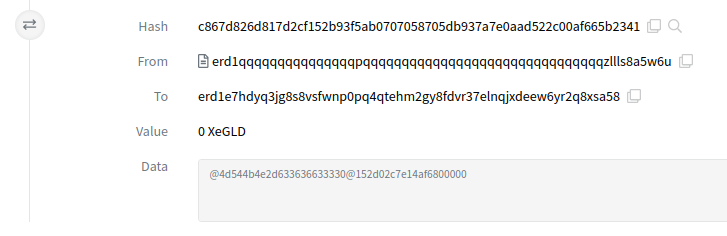
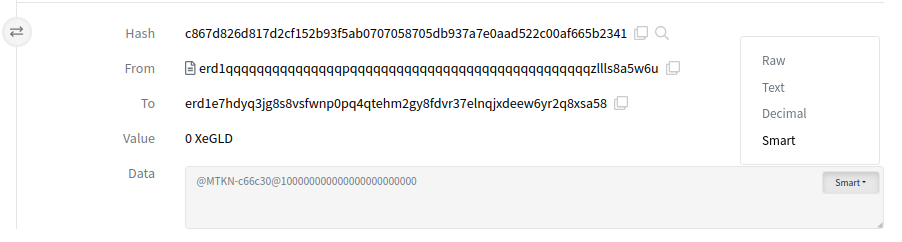
fixes after second review

diff --git a/docs/wallet/wallet-token.md b/docs/wallet/wallet-token.md
@@ -20,7 +20,11 @@ You can create and issue an ESDT token from [Elrond web wallet](https://wallet.e
 
 To get started, open up the [Elrond web wallet](https://wallet.elrond.com/). You can create a new wallet if you do not have one or import your existing wallet. Here is a [guide](https://docs.elrond.com/wallet/web-wallet/) to help you navigate.
 
-On the left sidebar, from the **ISSUE** section click on **Tokens**.
+On the left sidebar, you will notice the **ISSUE** section.
+
+![sidebar](/wallet/wallet-tokens/sidebar.png)
+
+Click on **Tokens**.
 
 ![issue-token}](/wallet/wallet-tokens/issue-token.png)
 
@@ -41,12 +45,12 @@ Once the transaction is processed, your token will be issued.
 
 ### **Finding the token identifier**
 
-The token identifier of a token is unique. It is composed by the token ticker, a `-` char, followed by 6 random hex characters. Example: `MTKN-70e238`.
+The token identifier of a token is unique. It is composed by the token ticker, a `-` char, followed by 6 random hex characters. Example: `MTKN-c66c30`.
 
 Because the token identifier isn't deterministic, it can be found only after issuing it. There are 2 ways of finding it:
 
-1) On the Explorer page of the issue transaction, you will see a Smart Contract Result which has a data field similar to: `@4d544b4e2d373065323338@152d02c7e14af6800000`. 
-The first element (`4d544b4e2d373065323338`) is the hex representation of `MTKN-70e238`. 
+1) On the Explorer page of the issue transaction, you will see a Smart Contract Result which has a data field similar to: `@4d544b4e2d373065323338@152d02c7e14af6800000`.
+On the right side, choose `Smart` and you will able to see the decoded parameters. In this example, the token identifier is `MTKN-c66c30`.
 
 ![Token issue SCR](/wallet/wallet-tokens/scr-issue-token.png)
 
@@ -58,7 +62,7 @@ The first element (`4d544b4e2d373065323338`) is the hex representation of `MTKN-
 
 You can transfer an amount of a token to another account. To get started, open up the [Elrond web wallet](https://wallet.elrond.com/).
 
-Navigate to the `TOKENS` tab, and click on `Send` for the token you want to transfer. 
+Navigate to the `Tokens` tab, and click on `Send` for the token you want to transfer. 
 
 ![Web Wallet Tokens page](/wallet/wallet-tokens/web-wallet-tokens-page.png)
 
